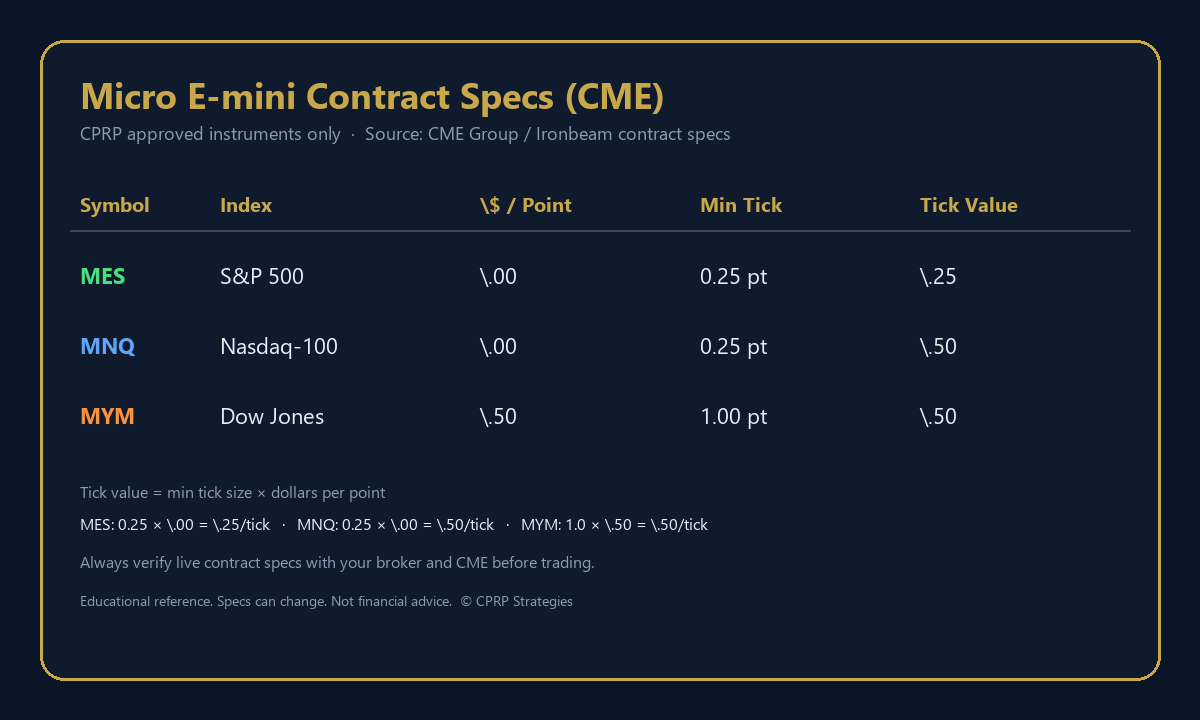
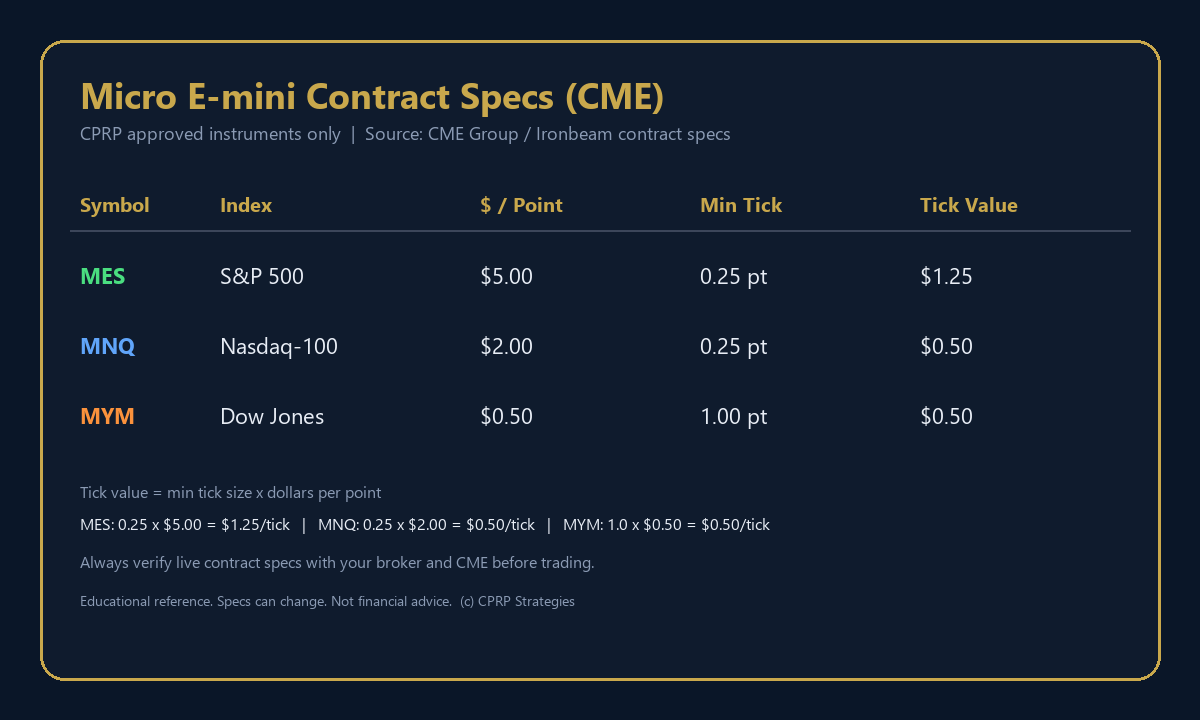
Fix Micro education images: full CME dollar amounts MES  MNQ  MYM .50

diff --git a/scripts/regen_micro_edu_images.py b/scripts/regen_micro_edu_images.py
@@ -1,0 +1,167 @@
+"""Regenerate Micro E-mini education images with correct CME $/point values."""
+
+from __future__ import annotations
+
+from pathlib import Path
+
+from PIL import Image, ImageDraw, ImageFont
+
+ROOT = Path(__file__).resolve().parent.parent
+EDU = ROOT / "assets" / "education"
+
+
+def font(size: int, bold: bool = False) -> ImageFont.ImageFont:
+    for p in (
+        r"C:\Windows\Fonts\segoeuib.ttf" if bold else r"C:\Windows\Fonts\segoeui.ttf",
+        r"C:\Windows\Fonts\arialbd.ttf" if bold else r"C:\Windows\Fonts\arial.ttf",
+    ):
+        try:
+            return ImageFont.truetype(p, size)
+        except OSError:
+            continue
+    return ImageFont.load_default()
+
+
+def draw_ticks() -> Path:
+    out = EDU / "micro_tick_values.png"
+    w, h = 1200, 720
+    bg, card, gold = (10, 22, 40), (15, 27, 45), (201, 168, 76)
+    text, muted = (232, 237, 245), (139, 155, 180)
+    green, blue, orange = (74, 222, 128), (96, 165, 250), (251, 146, 60)
+
+    img = Image.new("RGB", (w, h), bg)
+    d = ImageDraw.Draw(img)
+    f_title, f_sub = font(36, True), font(18, False)
+    f_head, f_row, f_cell = font(20, True), font(22, True), font(22, False)
+    f_note, f_foot = font(16, False), font(14, False)
+
+    d.rounded_rectangle([40, 40, w - 40, h - 40], radius=24, fill=card, outline=gold, width=3)
+    d.text((80, 70), "Micro E-mini Contract Specs (CME)", fill=gold, font=f_title)
+    d.text(
+        (80, 120),
+        "CPRP approved instruments only  |  Source: CME Group / Ironbeam contract specs",
+        fill=muted,
+        font=f_sub,
+    )
+
+    headers = ["Symbol", "Index", "$ / Point", "Min Tick", "Tick Value"]
+    cols_x = [80, 220, 480, 700, 920]
+    y0 = 190
+    for x, hdr in zip(cols_x, headers):
+        d.text((x, y0), hdr, fill=gold, font=f_head)
+    d.line([(70, y0 + 40), (w - 70, y0 + 40)], fill=(60, 70, 90), width=2)
+
+    rows = [
+        ("MES", "S&P 500", "$5.00", "0.25 pt", "$1.25", green),
+        ("MNQ", "Nasdaq-100", "$2.00", "0.25 pt", "$0.50", blue),
+        ("MYM", "Dow Jones", "$0.50", "1.00 pt", "$0.50", orange),
+    ]
+    for i, (sym, idx, pt, tick, tv, col) in enumerate(rows):
+        y = y0 + 70 + i * 70
+        d.text((cols_x[0], y), sym, fill=col, font=f_row)
+        d.text((cols_x[1], y), idx, fill=text, font=f_cell)
+        d.text((cols_x[2], y), pt, fill=text, font=f_cell)
+        d.text((cols_x[3], y), tick, fill=text, font=f_cell)
+        d.text((cols_x[4], y), tv, fill=text, font=f_cell)
+
+    notes_y = 480
+    d.text((80, notes_y), "Tick value = min tick size x dollars per point", fill=muted, font=f_note)
+    d.text(
+        (80, notes_y + 32),
+        "MES: 0.25 x $5.00 = $1.25/tick   |   MNQ: 0.25 x $2.00 = $0.50/tick   |   MYM: 1.0 x $0.50 = $0.50/tick",
+        fill=text,
+        font=f_note,
+    )
+    d.text(
+        (80, notes_y + 70),
+        "Always verify live contract specs with your broker and CME before trading.",
+        fill=muted,
+        font=f_note,
+    )
+    d.text(
+        (80, notes_y + 110),
+        "Educational reference. Specs can change. Not financial advice.  (c) CPRP Strategies",
+        fill=muted,
+        font=f_foot,
+    )
+    out.parent.mkdir(parents=True, exist_ok=True)
+    img.save(out, "PNG", optimize=True)
+    return out
+
+
+def draw_sizing() -> Path:
+    out = EDU / "micro_position_sizing.png"
+    w, h = 1200, 760
+    bg, card, gold = (10, 22, 40), (15, 27, 45), (201, 168, 76)
+    text, muted = (232, 237, 245), (139, 155, 180)
+    green, blue, orange = (74, 222, 128), (96, 165, 250), (251, 146, 60)
+    red = (248, 113, 113)
+
+    img = Image.new("RGB", (w, h), bg)
+    d = ImageDraw.Draw(img)
+    f_title, f_sub = font(34, True), font(17, False)
+    f_head, f_row, f_cell = font(18, True), font(22, True), font(20, False)
+    f_note, f_foot, f_formula = font(16, False), font(14, False), font(18, True)
+
+    d.rounded_rectangle([40, 40, w - 40, h - 40], radius=24, fill=card, outline=red, width=3)
+    d.text((80, 70), "CPRP Position Sizing vs Hard Stop", fill=red, font=f_title)
+    d.text(
+        (80, 118),
+        "Hard risk: max loss -$50 to -$100 per trade  |  1 micro contract baseline",
+        fill=muted,
+        font=f_sub,
+    )
+    d.rounded_rectangle([80, 160, w - 80, 220], radius=12, fill=(20, 32, 52), outline=gold, width=1)
+    d.text(
+        (100, 178),
+        "Stop distance (points)  =  Hard stop ($)  /  $ per point",
+        fill=gold,
+        font=f_formula,
+    )
+
+    headers = ["Symbol", "$ / Point", "Stop @ $50", "Stop @ $75", "Stop @ $100", "Tick $"]
+    cols_x = [80, 220, 380, 560, 760, 980]
+    y0 = 250
+    for x, hdr in zip(cols_x, headers):
+        d.text((x, y0), hdr, fill=gold, font=f_head)
+    d.line([(70, y0 + 36), (w - 70, y0 + 36)], fill=(60, 70, 90), width=2)
+
+    rows = [
+        ("MES", "$5.00", "10.0 pts", "15.0 pts", "20.0 pts", "$1.25", green),
+        ("MNQ", "$2.00", "25.0 pts", "37.5 pts", "50.0 pts", "$0.50", blue),
+        ("MYM", "$0.50", "100 pts", "150 pts", "200 pts", "$0.50", orange),
+    ]
+    for i, (sym, pt, s50, s75, s100, tv, col) in enumerate(rows):
+        y = y0 + 60 + i * 62
+        d.text((cols_x[0], y), sym, fill=col, font=f_row)
+        d.text((cols_x[1], y), pt, fill=text, font=f_cell)
+        d.text((cols_x[2], y), s50, fill=text, font=f_cell)
+        d.text((cols_x[3], y), s75, fill=text, font=f_cell)
+        d.text((cols_x[4], y), s100, fill=text, font=f_cell)
+        d.text((cols_x[5], y), tv, fill=text, font=f_cell)
+
+    ny = 520
+    bullets = [
+        "If structure stop would exceed -$100, stand aside or wait for tighter structure — do not enlarge risk.",
+        "Prefer MES when uncertain: fewer points of room needed per dollar of risk ($5/pt vs $2/pt vs $0.50/pt).",
+        "Never average down. Exit at the hard limit. Protocol risk is non-negotiable.",
+    ]
+    for i, b in enumerate(bullets):
+        d.text((80, ny + i * 36), "-  " + b, fill=text, font=f_note)
+
+    d.text(
+        (80, 680),
+        "Educational sizing guide for CPRP. Verify with your broker / CME. Not financial advice.  (c) CPRP Strategies",
+        fill=muted,
+        font=f_foot,
+    )
+    out.parent.mkdir(parents=True, exist_ok=True)
+    img.save(out, "PNG", optimize=True)
+    return out
+
+
+if __name__ == "__main__":
+    a = draw_ticks()
+    b = draw_sizing()
+    print("Wrote", a, a.stat().st_size)
+    print("Wrote", b, b.stat().st_size)
